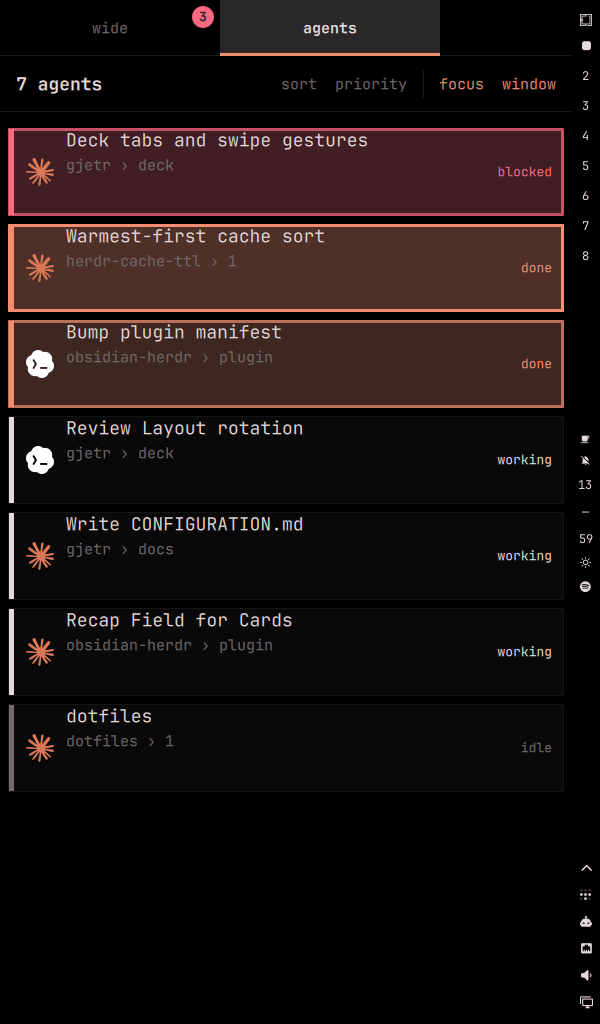
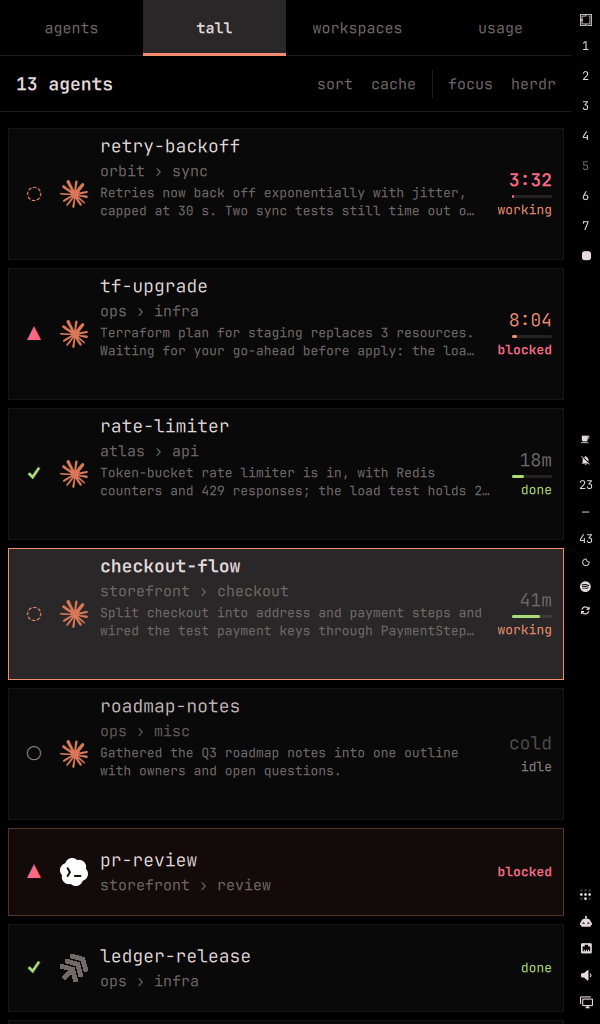
Show gjetr as herdr's sidebar in new README screenshots
New screenshots from a demo herdr and demo usage records: the Dock as
herdr's sidebar on a 4K monitor with usage pinned at the bottom, the
panel in landscape and portrait, the Workspace List and Usage. The
README gains a section on using a Dock in place of herdr's sidebar,
with its Config and keybinding, and a gallery.

diff --git a/README.md b/README.md
@@ -1,6 +1,6 @@
 # gjetr
 
-![gjetr on a 7" touchscreen beside the desk](preview.png)
+![gjetr on a 7" touchscreen: every herdr agent as a Card with its kind logo, status, Recap and Cache timer](preview.png)
 
 **A herdr dashboard for a secondary touchscreen.** gjetr shows every agent
 [herdr](https://herdr.dev) is running as a live Card on a small display next to
@@ -11,9 +11,68 @@ screen space on your main monitor for herdr's sidebar.
 It is an [Omarchy](https://omarchy.org) shell plugin: it follows your theme,
 lives beside the Omarchy bar, and needs no daemon.
 
+## herdr's sidebar, outside herdr
+
+<img src="assets/sidebar.png" alt="A Dock on the left of a 4K monitor: thirteen agents with logos, statuses, repository and branch, Recaps and Cache timers, and usage limits pinned at the bottom" width="310" align="right">
+
+No touchscreen? Dock gjetr along the left edge of your main monitor and it
+does the job of herdr's sidebar there, for every herdr workspace at once and
+without taking columns from your panes. It stays on every workspace, windows
+tile beside it, and a key shows or hides it.
+
+Each agent reads at a glance: its kind's logo lit in its status (moving while
+it works, flashing when blocked, green when done), the name you gave it, the
+repository and branch it works in, a draining Cache timer, and the first lines
+of Claude's latest Recap. Click one to jump to its pane and window. Rate limits
+for Claude, Codex and the other providers sit pinned under the list, as tall
+as their lines.
+
+`~/.config/gjetr/gjetr.toml`:
+
+```toml
+[[display]]
+kind = "dock"
+name = "DP-1"              # your main monitor
+edge = "left"
+size = 360
+deck = ["sidebar"]
+```
+
+`~/.config/gjetr/layouts/sidebar.toml`:
+
+```toml
+orientation = "portrait"
+
+[[module]]
+type = "agent-list"
+density = "full"
+sort = "priority"
+recap = "inline"
+indicator = "icon"
+focus = "window"
+
+[[module]]
+type = "usage"
+show = ["limits"]
+pin = "end"
+```
+
+Bind the toggle in `~/.config/hypr/bindings.lua`:
+
+```lua
+o.bind("SUPER + CTRL + G", "Toggle gjetr dock", "omarchy-shell nytafar.gjetr toggleDock DP-1")
+```
+
+<br clear="right">
+
+## Gallery
+
 <p>
-  <img src="assets/landscape.png" alt="Landscape: Deck tabs on the left, two columns of Cards, two pulsing" width="58%">
-  <img src="assets/portrait.png" alt="Portrait: tabs on top, one column of Cards" width="34%">
+  <img src="assets/portrait.png" alt="Portrait panel: Deck tabs on top, Agent Cards sorted by Cache timer" width="30%">
+  <img src="assets/workspaces.png" alt="Workspace List of four herdr workspaces beside a compact Agent List" width="66%">
+</p>
+<p>
+  <img src="assets/usage.png" alt="Agent List beside Usage: Claude and Codex limits, today's tokens and a week of daily bars" width="66%">
 </p>
 
 ## Features
@@ -48,6 +107,8 @@ lives beside the Omarchy bar, and needs no daemon.
 - **Dock.** Dock gjetr along an edge of your main monitor too, with its own
   Deck: it stays on every workspace, windows tile beside it, ordinary windows
   never cover it, and a keybinding shows or hides it. Works with the mouse.
+  Pin the Usage Module to its bottom and it takes only the height its lines
+  need.
 - **Density that fits.** Touchscreens get big Cards; a Dock and narrow columns
   get compact rows, so a Dock beside your windows lists sixteen agents at once.
   Or set `density = "full"` for Cards you can read leaning back: big names,

diff --git a/CHANGELOG.md b/CHANGELOG.md
@@ -18,6 +18,13 @@ All notable changes to gjetr. The format follows
   Agent List or Workspace List it is logged and ignored.
   `examples/gjetr/layouts/dock.toml` pins its usage; `state` → `modules[].pin`.
 
+### Changed
+
+- README: new screenshots taken from a demo herdr and demo usage records (the
+  Dock as herdr's sidebar on a 4K monitor, the panel in landscape and portrait,
+  the Workspace List and Usage), a section on using a Dock in place of herdr's
+  sidebar with its Config and keybinding, and a gallery.
+
 ## [0.2.0] - 2026-09-13
 
 ### Added
